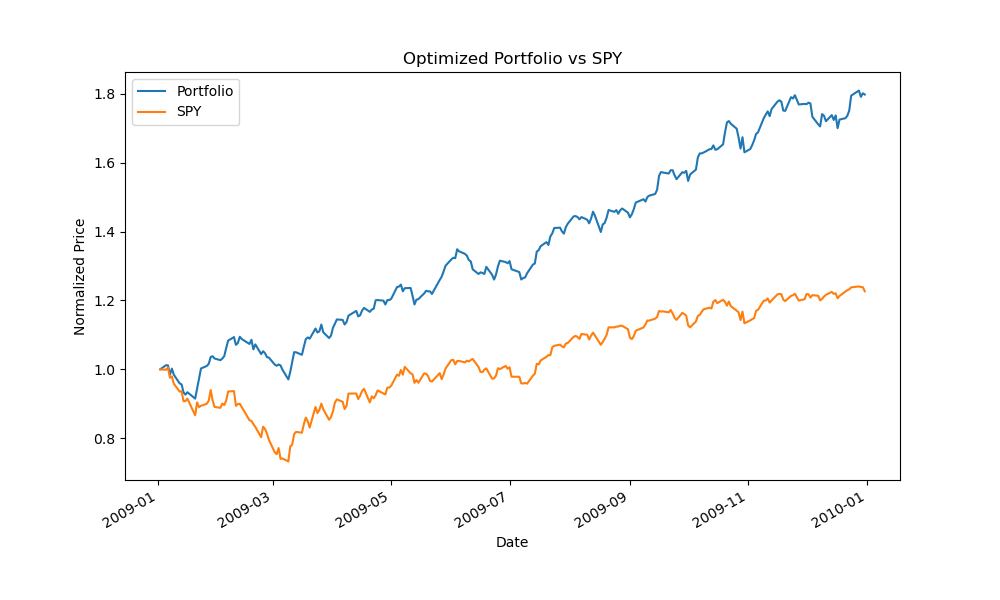
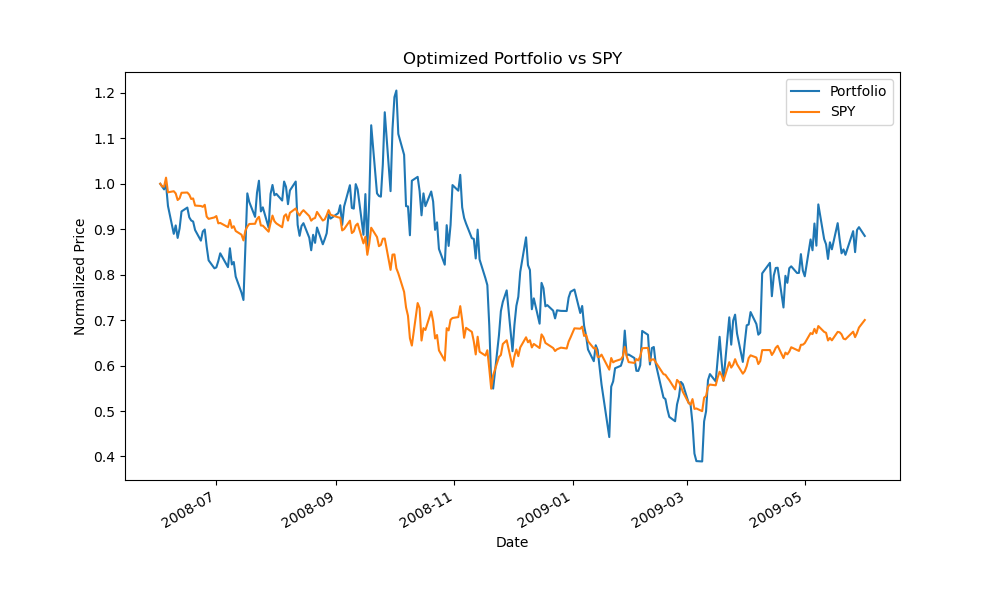
done

diff --git a/optimization.py b/optimization.py
@@ -247,9 +247,12 @@ def test_code():
     This function WILL NOT be called by the auto grader.  		  	   		 		  		  		  		    	 		 		   		 		  
     """  		  	   		 		  		  		  		    	 		 		   		 		  
   		  	   		 		  		  		  		    	 		 		   		 		  
-    start_date = dt.datetime(2009, 1, 1)  		  	   		 		  		  		  		    	 		 		   		 		  
-    end_date = dt.datetime(2010, 1, 1)  		  	   		 		  		  		  		    	 		 		   		 		  
-    symbols = ["GOOG", "AAPL", "GLD", "XOM", "IBM"]  		  	   		 		  		  		  		    	 		 		   		 		  
+    # start_date = dt.datetime(2009, 1, 1)  		  	   		 		  		  		  		    	 		 		   		 		  
+    # end_date = dt.datetime(2010, 1, 1)  
+    start_date = dt.datetime(2008, 6, 1)  		  	   		 		  		  		  		    	 		 		   		 		  
+    end_date = dt.datetime(2009, 6, 1)  		  	   		 		  		  		  		    	 		 		   		 		  
+    # symbols = ["GOOG", "AAPL", "GLD", "XOM", "IBM"]  		  	   		 		  		  		  		    	 		 		   		 		  
+    symbols = ["IBM", "X", "GLD", "JPM"]  		  	   		 		  		  		  		    	 		 		   		 		  
   		  	   		 		  		  		  		    	 		 		   		 		  
     # Assess the portfolio  		  	   		 		  		  		  		    	 		 		   		 		  
     allocations, cr, adr, sddr, sr = optimize_portfolio(  		  	   		 		  		  		  		    	 		 		   		 		  
